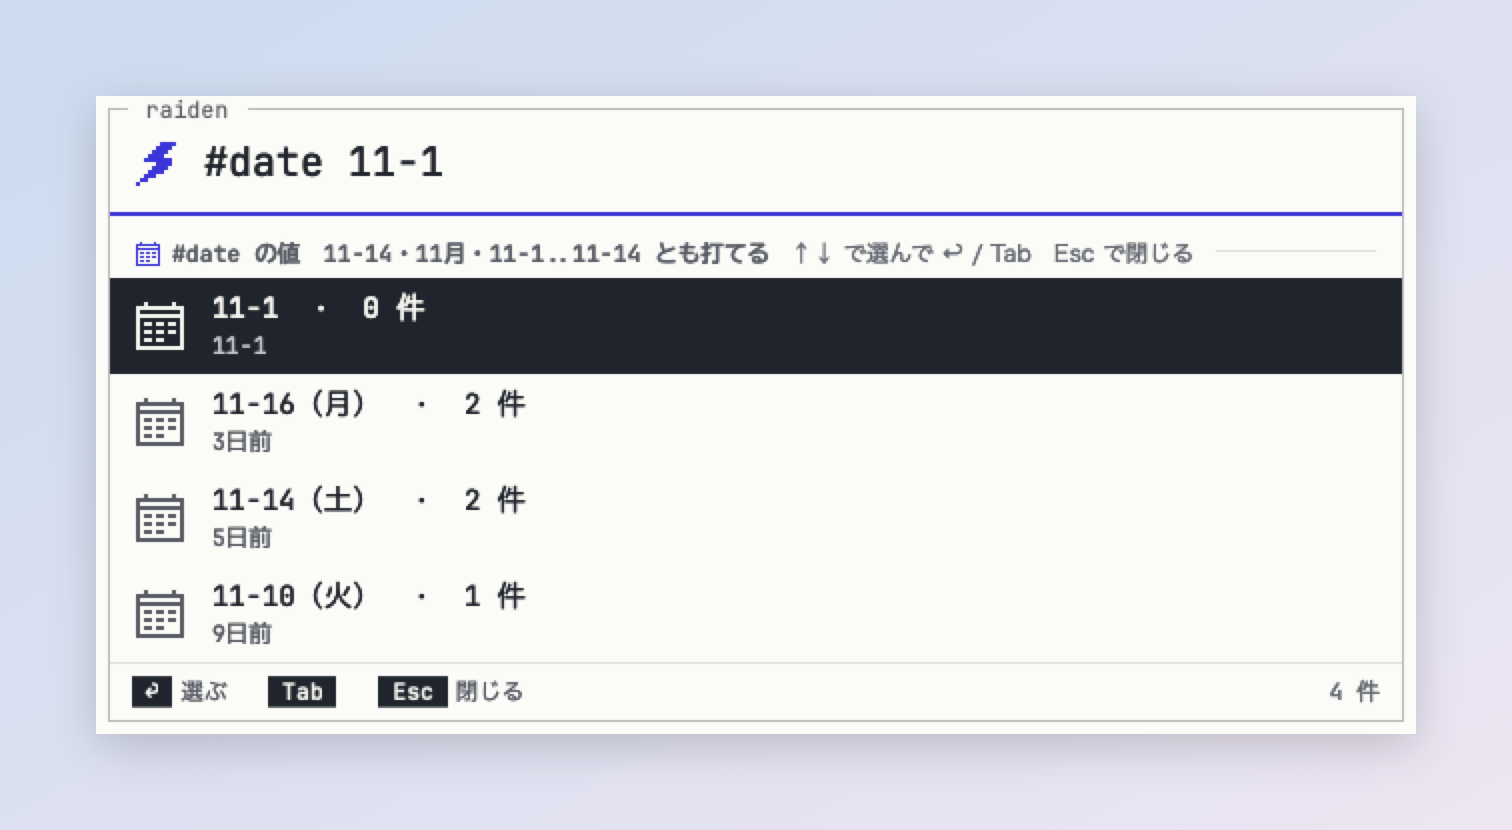
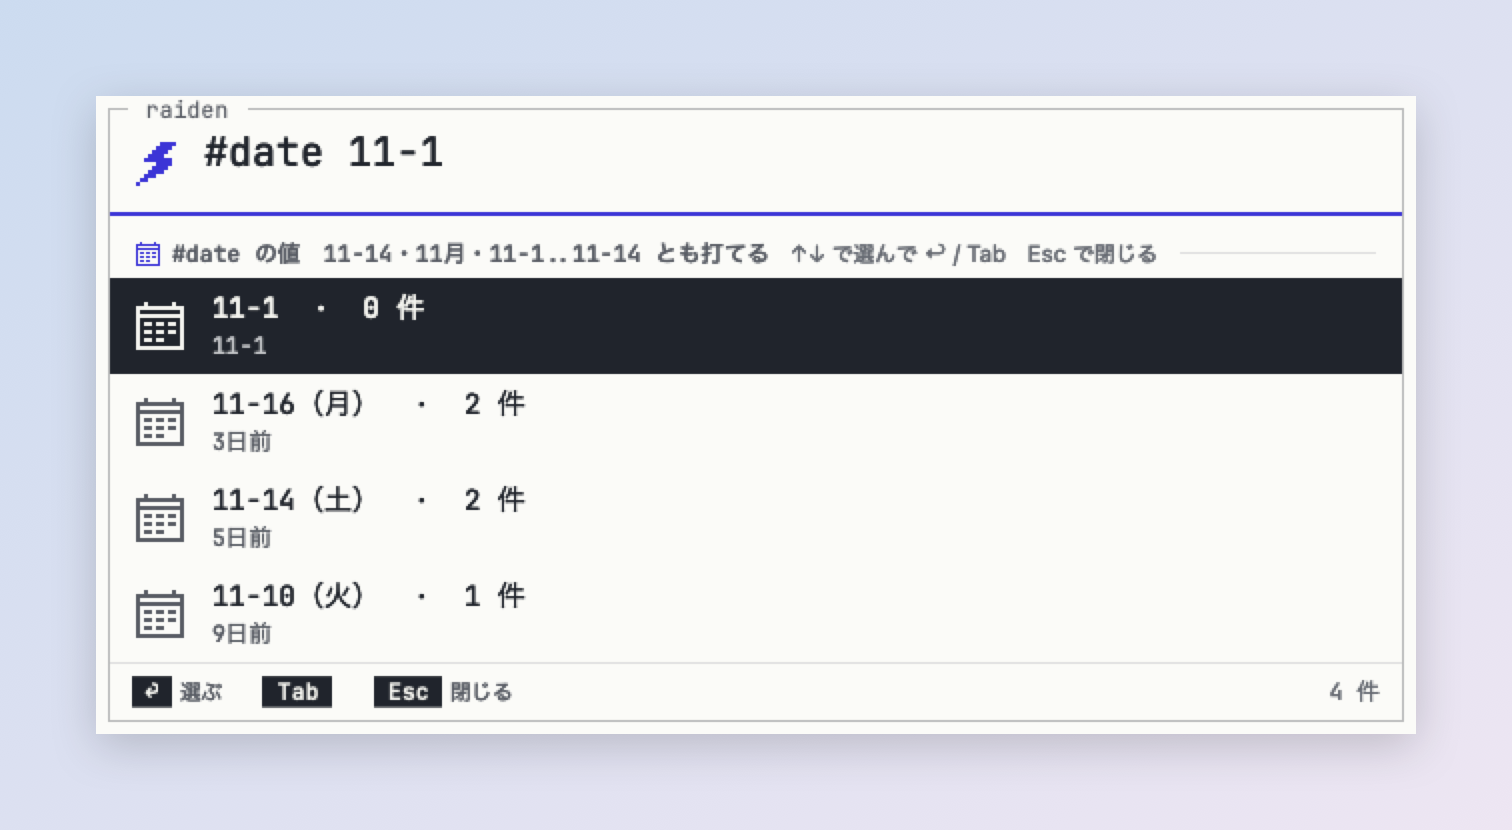
入力欄の字の上が切れるのを直す（欄を 40pt にして字を真ん中に描き、案内文は別のラベルで空のときだけ出す）。字体は Andon の Kodou テーマに合わせ、日本語は macOS に任せ、文はシステムの字体にする

diff --git a/app/Sources/Raiden/SearchPanel.swift b/app/Sources/Raiden/SearchPanel.swift
@@ -30,6 +30,10 @@ final class FocusLineView: NSView {
 
 /// 入力欄の編集部品。変換中の文字の下線を藍にする（日本語入力が付ける線の太さはそのまま、色だけ変える）
 final class BandFieldEditor: NSTextView {
+    /// 文字か変換中の文字が変わったとき（案内文を出すか決め直す）
+    var onEdit: (() -> Void)?
+    override func unmarkText() { super.unmarkText(); onEdit?() }
+    override func didChangeText() { super.didChangeText(); onEdit?() }
     override func setMarkedText(_ string: Any, selectedRange: NSRange, replacementRange: NSRange) {
         let m: NSMutableAttributedString
         if let a = string as? NSAttributedString { m = NSMutableAttributedString(attributedString: a) }
@@ -42,6 +46,36 @@ final class BandFieldEditor: NSTextView {
             m.addAttribute(.underlineColor, value: PanelStyle.caret, range: all)
         }
         super.setMarkedText(m, selectedRange: selectedRange, replacementRange: replacementRange)
+        onEdit?()
+    }
+}
+
+/// 検索の入力欄。字は欄の高さの真ん中に描く（JetBrains Mono に日本語の字体が混ざると、
+/// NSTextField の既定では日本語の字の上が欄からはみ出して切れる。欄を高くし、字の行を真ん中に置く）
+final class BandField: NSTextField {
+    override class var cellClass: AnyClass? { get { BandFieldCell.self } set {} }
+    /// コードから文字を書き換えたとき（「#」の一覧で選んだ・取り消した）にも案内文を決め直す
+    var onSet: (() -> Void)?
+    override var stringValue: String { didSet { onSet?() } }
+}
+
+final class BandFieldCell: NSTextFieldCell {
+    /// 日本語と英字を混ぜた 1 行の実際の高さ（字体を混ぜた分も含む）
+    private func lineHeight() -> CGFloat {
+        let f = font ?? K.mono(20)
+        return ceil(NSAttributedString(string: "Rg検索あ", attributes: [.font: f]).size().height)
+    }
+    private func centered(_ r: NSRect) -> NSRect {
+        let h = min(r.height, lineHeight())
+        return NSRect(x: r.minX, y: r.minY + ((r.height - h) / 2).rounded(), width: r.width, height: h)
+    }
+    override func drawingRect(forBounds rect: NSRect) -> NSRect { centered(super.drawingRect(forBounds: rect)) }
+    override func titleRect(forBounds rect: NSRect) -> NSRect { centered(super.titleRect(forBounds: rect)) }
+    override func edit(withFrame rect: NSRect, in controlView: NSView, editor textObj: NSText, delegate: Any?, event: NSEvent?) {
+        super.edit(withFrame: centered(rect), in: controlView, editor: textObj, delegate: delegate, event: event)
+    }
+    override func select(withFrame rect: NSRect, in controlView: NSView, editor textObj: NSText, delegate: Any?, start selStart: Int, length selLength: Int) {
+        super.select(withFrame: centered(rect), in: controlView, editor: textObj, delegate: delegate, start: selStart, length: selLength)
     }
 }
 
@@ -402,7 +436,8 @@ final class SearchPanelController: NSObject, NSTextFieldDelegate, NSWindowDelega
     let panel: KeyPanel
     /// 中身の面（PNG の書き出しはこれを撮る）
     let content = NSView()
-    private let field = NSTextField()
+    private let field = BandField()
+    private let placeholderLabel = NSTextField(labelWithString: "")
     private let statusIcon = NSImageView()
     private let status = NSTextField(labelWithString: "")
     /// 一覧の上に固定で出す行（チップ・知らせ・絞り込みの一覧の見出し）
@@ -514,7 +549,10 @@ final class SearchPanelController: NSObject, NSTextFieldDelegate, NSWindowDelega
         field.font = K.mono(20)
         field.textColor = K.fg
         // 入力欄が空のときの案内文: 「Raiden 検索」は薄く、「filter: #」は # の使い方の手がかりとして小さく
-        field.placeholderAttributedString = Self.defaultPlaceholder
+        // 案内文は欄の外のラベルで出す（欄の案内文は編集中に入力の部品が別に描き、字の上が切れたため）
+        placeholderLabel.attributedStringValue = Self.defaultPlaceholder
+        placeholderLabel.lineBreakMode = .byTruncatingTail
+        field.onSet = { [weak self] in self?.updatePlaceholder() }
         field.delegate = self
         field.cell?.usesSingleLineMode = true
         statusIcon.contentTintColor = K.faint
@@ -545,9 +583,16 @@ final class SearchPanelController: NSObject, NSTextFieldDelegate, NSWindowDelega
 
     /// 案内文を差し替える（#alias の行き先を選んでいる間は「黒い画面 → どれに？」）。nil でいつもの案内
     func setPlaceholder(_ text: String?) {
-        guard let text else { field.placeholderAttributedString = Self.defaultPlaceholder; return }
-        field.placeholderAttributedString = NSAttributedString(string: text, attributes: [
-            .foregroundColor: K.faint, .font: K.mono(20)])
+        placeholderLabel.attributedStringValue = text.map {
+            NSAttributedString(string: $0, attributes: [.foregroundColor: K.faint, .font: K.mono(20)])
+        } ?? Self.defaultPlaceholder
+        updatePlaceholder()
+    }
+
+    /// 案内文は、欄が空で変換中の字も無いときだけ出す
+    private func updatePlaceholder() {
+        let marked = (field.currentEditor() as? NSTextView)?.hasMarkedText() ?? false
+        placeholderLabel.isHidden = !field.stringValue.isEmpty || marked
     }
 
     private func setupList(sep: HairlineView, glyph: NSImageView) {
@@ -583,7 +628,7 @@ final class SearchPanelController: NSObject, NSTextFieldDelegate, NSWindowDelega
             v.translatesAutoresizingMaskIntoConstraints = false
             statusBox.addSubview(v)
         }
-        for v in [frameView, focusLine, glyph, field, frameTitle, statusBox, sep, topStack, scroll, footer, bandRule, keyBand, bandInfo] as [NSView] {
+        for v in [frameView, focusLine, glyph, placeholderLabel, field, frameTitle, statusBox, sep, topStack, scroll, footer, bandRule, keyBand, bandInfo] as [NSView] {
             v.translatesAutoresizingMaskIntoConstraints = false
             content.addSubview(v)
         }
@@ -609,8 +654,13 @@ final class SearchPanelController: NSObject, NSTextFieldDelegate, NSWindowDelega
             glyph.centerYAnchor.constraint(equalTo: content.topAnchor, constant: (KFrameView.inset + 1 + Self.fieldHeight - 2) / 2 + 3),
             field.leadingAnchor.constraint(equalTo: glyph.trailingAnchor, constant: 10),
             field.trailingAnchor.constraint(equalTo: content.trailingAnchor, constant: -20),
-            // 入力欄の字は欄の上寄りに描かれる（BIZ UDゴシックの行の高さ）ので、字の真ん中が稲妻とそろうよう下げる
-            field.centerYAnchor.constraint(equalTo: glyph.centerYAnchor, constant: Self.fieldTextNudge),
+            // 欄は高めに取り、字は BandFieldCell が欄の真ん中に描く
+            field.centerYAnchor.constraint(equalTo: glyph.centerYAnchor),
+            field.heightAnchor.constraint(equalToConstant: 40),
+            // 欄の字の描き始め（左 2pt）と同じ所から
+            placeholderLabel.leadingAnchor.constraint(equalTo: field.leadingAnchor, constant: 2),
+            placeholderLabel.trailingAnchor.constraint(lessThanOrEqualTo: field.trailingAnchor),
+            placeholderLabel.centerYAnchor.constraint(equalTo: glyph.centerYAnchor),
             focusLine.topAnchor.constraint(equalTo: content.topAnchor, constant: Self.fieldHeight - 2),
             focusLine.heightAnchor.constraint(equalToConstant: 2),
             focusLine.leadingAnchor.constraint(equalTo: content.leadingAnchor, constant: inset + 1),
@@ -693,6 +743,7 @@ final class SearchPanelController: NSObject, NSTextFieldDelegate, NSWindowDelega
 
     func show() {
         field.stringValue = ""
+        updatePlaceholder()
         lastHashCount = 0
         userMoved = false
         filterInput.reset()
@@ -771,6 +822,7 @@ final class SearchPanelController: NSObject, NSTextFieldDelegate, NSWindowDelega
     /// 見本を撮るとき用（入力欄の文字を入れる）
     func setQueryText(_ s: String) {
         field.stringValue = s
+        updatePlaceholder()
         lastHashCount = s.reduce(0) { $0 + ($1 == "#" || $1 == "＃" ? 1 : 0) }
     }
 
@@ -796,7 +848,6 @@ final class SearchPanelController: NSObject, NSTextFieldDelegate, NSWindowDelega
     static var maxPanelHeight: CGFloat { visibleFrame.height * 0.65 }
 
     /// 一覧の下から窓の下端まで（すき間・キーの帯・枠）
-    static let fieldTextNudge: CGFloat = 5
     static var chromeBottom: CGFloat { 6 + bandHeight + KFrameView.inset + 1 }
 
     private func layoutPanel(top: CGFloat, list: CGFloat) {
@@ -1301,6 +1352,7 @@ final class SearchPanelController: NSObject, NSTextFieldDelegate, NSWindowDelega
         let n = field.stringValue.reduce(0) { $0 + ($1 == "#" || $1 == "＃" ? 1 : 0) }
         if n > lastHashCount { flashBolt() }
         typedAt = CACurrentMediaTime()
+        updatePlaceholder()
         filterInput.textDidChange()
         lastHashCount = field.stringValue.reduce(0) { $0 + ($1 == "#" || $1 == "＃" ? 1 : 0) }
     }
@@ -1358,6 +1410,7 @@ final class SearchPanelController: NSObject, NSTextFieldDelegate, NSWindowDelega
         tv.insertionPointColor = PanelStyle.caret
         tv.selectedTextAttributes = [.backgroundColor: K.selBg, .foregroundColor: K.selFg]
         tv.markedTextAttributes = [.underlineStyle: NSUnderlineStyle.single.rawValue, .underlineColor: PanelStyle.caret]
+        tv.onEdit = { [weak self] in self?.updatePlaceholder() }
         return tv
     }()
 

diff --git a/app/Sources/Raiden/Kodou.swift b/app/Sources/Raiden/Kodou.swift
@@ -67,27 +67,16 @@ enum K {
 
     // MARK: 字体
 
-    /// 等幅（JetBrains Mono ＋ 日本語は BIZ UDゴシック）。データ・コマンド・入力欄・名前とパス
+    /// 等幅（同梱の JetBrains Mono）。データ・コマンド・入力欄・名前とパス。
+    /// 日本語の字体は指定せず、macOS が選ぶ字体に任せる（Andon の Kodou テーマと同じ）
     static func mono(_ size: CGFloat, bold: Bool = false) -> NSFont {
-        let key = "\(size)-\(bold)"
-        if let f = monoCache[key] { return f }
-        let name = bold ? "JetBrainsMono-SemiBold" : "JetBrainsMono-Regular"
-        let jp = bold ? "BIZUDGothic-Bold" : "BIZUDGothic-Regular"
-        let base = NSFont(name: name, size: size) ?? .monospacedSystemFont(ofSize: size, weight: bold ? .semibold : .regular)
-        let desc = base.fontDescriptor.addingAttributes([
-            .cascadeList: [NSFontDescriptor(name: jp, size: size), NSFontDescriptor(name: "HiraginoSans-W3", size: size)],
-        ])
-        let f = NSFont(descriptor: desc, size: size) ?? base
-        monoCache[key] = f
-        return f
+        NSFont(name: bold ? "JetBrainsMono-SemiBold" : "JetBrainsMono-Regular", size: size)
+            ?? .monospacedSystemFont(ofSize: size, weight: bold ? .semibold : .regular)
     }
-    private static var monoCache: [String: NSFont] = [:]
 
-    /// 文（説明・案内）。Kodou-ui は Noto Sans JP、無ければヒラギノ角ゴ
+    /// 文（説明・案内）。システムの字体（英字は SF Pro、日本語はヒラギノ角ゴ。Andon の Kodou テーマと同じ）
     static func read(_ size: CGFloat, bold: Bool = false) -> NSFont {
-        NSFont(name: bold ? "NotoSansJP-Bold" : "NotoSansJP-Regular", size: size)
-            ?? NSFont(name: bold ? "HiraginoSans-W6" : "HiraginoSans-W3", size: size)
-            ?? .systemFont(ofSize: size, weight: bold ? .semibold : .regular)
+        .systemFont(ofSize: size, weight: bold ? .semibold : .regular)
     }
 
     // MARK: 余白と動き

diff --git a/DESIGN.md b/DESIGN.md
@@ -117,7 +117,7 @@ components:
 - アクセント: アイコンの稲妻の藍（#3B34D6、暗い地は #9C97FF）。地に 7.6:1（暗い地 6.7:1）
 - 使う人と画面の大きさ: 本人（開発者）。画面中央の幅 660pt のパネル、ファイルを選ぶと右に 380pt のプレビュー
 - AppKit で作る: 値は `app/Sources/Raiden/Kodou.swift` の `K` に写してあり、部品は `K` だけを使う。値を変えたらこのファイルと `K` の両方を直す
-- 字体: JetBrains Mono を同梱（`app/Resources/Fonts`）、日本語は BIZ UDゴシック（macOS 付属）。文は Noto Sans JP が無ければヒラギノ角ゴ
+- 字体: 等幅は JetBrains Mono を同梱（`app/Resources/Fonts`）。日本語の字体は指定せず macOS に任せ、文はシステムの字体（SF Pro・ヒラギノ角ゴ）。Andon の Kodou テーマに合わせ、Kodou-ui の決まり（BIZ UDゴシック・Noto Sans JP）からは外している
 - アイコン: Kodou-ui のドット絵（`PixelGlyphs.swift` と、Raiden で足した物は `Kodou.swift` の `RaidenGlyphs`）。アプリとファイルのアイコンは中身のデータなので Mac のアイコンのまま
 - 外観: ライトが既定。設定の「一般 → 外観」でダーク・Mac に合わせるを選べる
 
